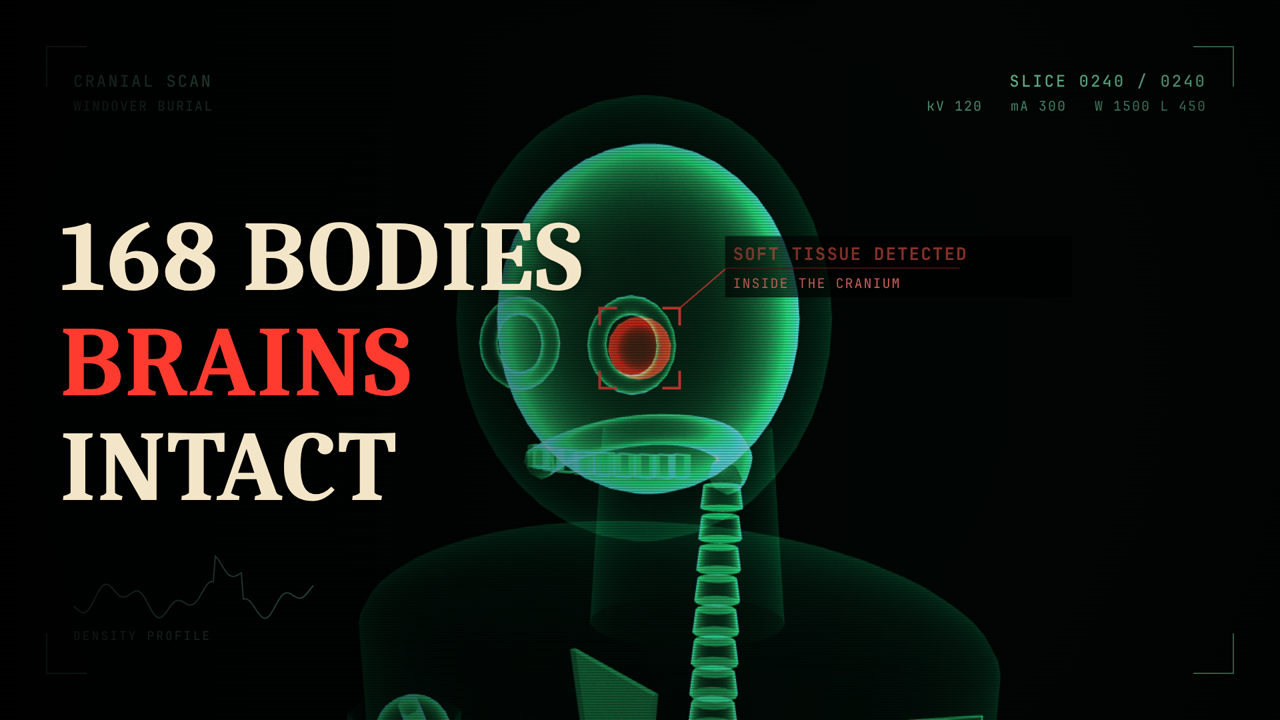
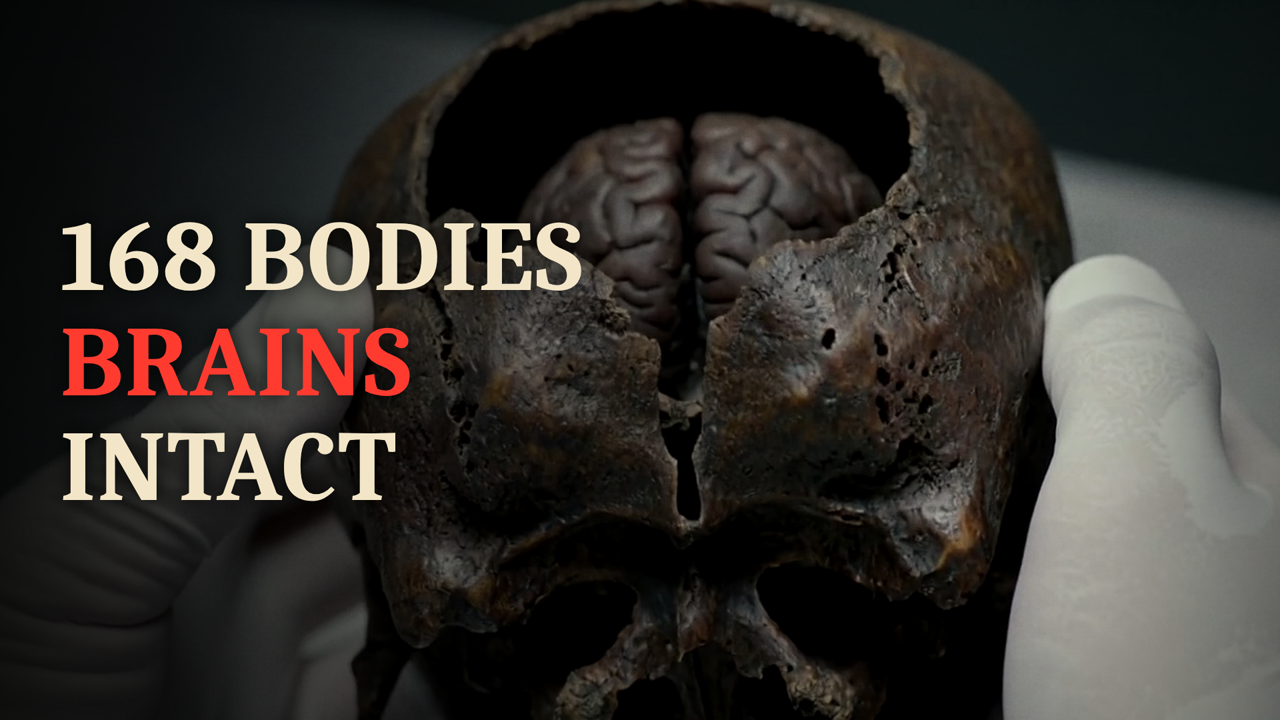
Windover: footage thumbnail, credits, YouTube package
Claude-Session: https://claude.ai/code/session_012UsP9ffigZcjwBrWQpn3FL

diff --git a/projects/windover/youtube.md b/projects/windover/youtube.md
@@ -30,6 +30,61 @@ Sources:
 - Windover discovery still raises questions — WFTV: https://www.wftv.com/news/local/windover-discovery-still-raises-questions-about-science-history-indigenous-cultures/AMMQ6MW43NGPPGK3METJZESCGE/
 - Pääbo, Gifford & Wilson (1988), "Mitochondrial DNA sequences from a 7000-year old brain", Nucleic Acids Research.
 
+## Footage credits
+
+Stock footage from Pexels (free license). Thank you to:
+
+- ASHOK KANCHI — https://www.pexels.com/video/burning-logs-6417633/
+- Adrian Hoparda — https://www.pexels.com/video/sunrise-over-field-4460025/
+- Alin Buda — https://www.pexels.com/video/a-deer-with-large-antlers-is-walking-through-the-woods-19904298/
+- Antonio Jose Meza Cárdenas — https://www.pexels.com/video/old-woman-working-using-bamboo-material-2121092/
+- Danny Rivera — https://www.pexels.com/video/drone-footage-of-houses-and-buildings-near-the-shore-8360189/
+- David Pickup — https://www.pexels.com/video/aerial-view-of-suburban-construction-site-28978188/
+- Dmitry Marchenkov — https://www.pexels.com/video/drone-footage-of-marshes-8387490/
+- Engin Akyurt — https://www.pexels.com/video/tiger-shark-20616363/
+- Eric Skaggs — https://www.pexels.com/video/an-aerial-view-of-a-swamp-with-dead-trees-19409611/
+- Francesco Ungaro — https://www.pexels.com/video/rippled-water-at-sunset-11028763/
+- Itai Perelman Nasich — https://www.pexels.com/video/close-up-view-of-swamp-water-5701468/
+- K — https://www.pexels.com/video/police-line-do-not-cross-signage-6581271/
+- Kaboompics — https://www.pexels.com/video/person-putting-colored-liquid-on-a-test-tube-8540609/
+- Kaboompics — https://www.pexels.com/video/a-woman-holding-an-anatomical-model-of-a-human-head-8108914/
+- Kindel Media — https://www.pexels.com/video/close-up-video-of-police-car-lights-7714378/
+- Los Muertos Crew — https://www.pexels.com/video/an-alligator-resting-in-a-swamp-10041468/
+- Matheus De Moraes Gugelmim — https://www.pexels.com/video/great-pyramids-of-giza-cairo-queops-khufu-quefren-and-menkaure-mikerinos-timelapse-20284255/
+- Matthias Groeneveld — https://www.pexels.com/video/drone-view-of-a-wetland-landscape-at-sunrise-16572179/
+- Matthias Groeneveld — https://www.pexels.com/video/leafless-trees-in-a-swamp-11515016/
+- Miguel Á. Padriñán — https://www.pexels.com/video/a-human-skull-5762177/
+- Miguel Á. Padriñán — https://www.pexels.com/video/a-broken-skull-on-display-5762181/
+- Miguel Á. Padriñán — https://www.pexels.com/video/a-footage-of-a-skeleton-5762549/
+- Nicola Narracci — https://www.pexels.com/video/abstract-dna-helix-animation-on-dark-background-35967934/
+- Oak & Rumble — https://www.pexels.com/video/deer-eating-leaves-852338/
+- Pavel Danilyuk — https://www.pexels.com/video/shot-of-a-weaved-textile-7318530/
+- Pixabay — https://www.pexels.com/video/countdown-to-rocket-launching-854269/
+- Pressmaster — https://www.pexels.com/video/a-man-and-a-woman-working-in-a-laboratory-3214535/
+- RDNE Stock project — https://www.pexels.com/video/mother-caressing-baby-s-foot-6849063/
+- Robertt — https://www.pexels.com/video/spinning-touchstone-maze-shot-15939381/
+- Rony Way — https://www.pexels.com/video/microscopic-view-of-bacteria-or-cells-in-motion-38533119/
+- SHVETS production — https://www.pexels.com/video/people-looking-at-dental-scans-8413556/
+- SHVETS production — https://www.pexels.com/video/elderly-couple-holding-hands-8971157/
+- Steven Hause — https://www.pexels.com/video/a-video-footage-of-a-tombstone-in-a-graveyard-9610463/
+- The Instagrapher — https://www.pexels.com/video/tracking-shot-of-hieroglyphs-7492694/
+- Tima Miroshnichenko — https://www.pexels.com/video/man-sitting-on-a-chair-and-looking-at-the-microscope-9573754/
+- Tima Miroshnichenko — https://www.pexels.com/video/a-person-browsing-through-card-catalogs-6550424/
+- Tima Miroshnichenko — https://www.pexels.com/video/young-doctor-looking-at-x-ray-image-5453588/
+- Tom Fisk — https://www.pexels.com/video/water-pump-and-excavator-on-construction-site-13368021/
+- Tom Fisk — https://www.pexels.com/video/fog-over-lake-14067717/
+- Yago Trillo — https://www.pexels.com/video/vultures-in-the-sierra-de-la-demanda-burgos-spain-18335306/
+- Yan Krukau — https://www.pexels.com/video/close-up-view-of-a-person-digging-5479433/
+- Yan Krukau — https://www.pexels.com/video/man-carrying-child-on-his-shoulder-4978271/
+- cottonbro studio — https://www.pexels.com/video/police-tape-at-crime-scene-10466486/
+- cottonbro studio — https://www.pexels.com/video/police-officer-and-technician-inspecting-evidence-at-night-10482310/
+- cottonbro studio — https://www.pexels.com/video/doctor-showing-the-x-ray-7579843/
+- cottonbro studio — https://www.pexels.com/video/presenting-x-ray-images-5724099/
+- dabatepatvideos — https://www.pexels.com/video/rippled-water-at-night-10122703/
+- utopia 36 — https://www.pexels.com/video/excavator-working-with-sand-12060113/
+
+Scenes labeled "Dramatization" are AI-generated reconstructions.
+
 ## Tags
 windover, windover bog bodies, bog bodies, florida archaeology, ancient brains, 7000 year old brains,
 archaeology documentary, ancient mysteries, titusville florida, native american history, prehistoric florida,
